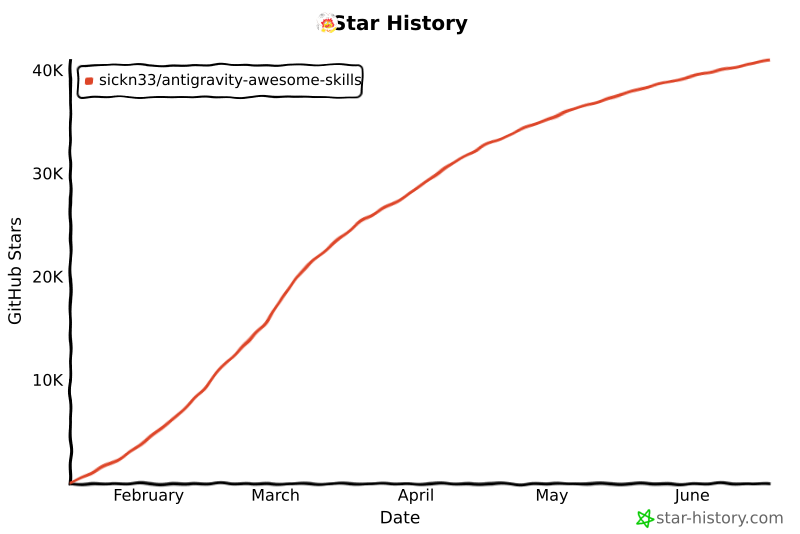
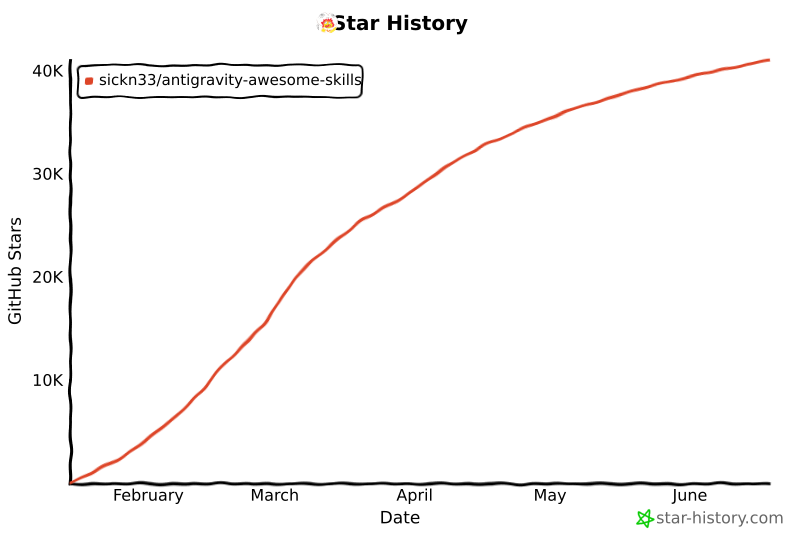
chore: update star history chart

diff --git a/README.md b/README.md
@@ -505,14 +505,14 @@ We officially thank the following contributors for their help in making this rep
 ## Star History
 
 <a href="https://www.star-history.com/#sickn33/antigravity-awesome-skills&type=date&legend=top-left">
- <img alt="Star History Chart" src="https://api.star-history.com/svg?repos=sickn33/antigravity-awesome-skills&type=date&legend=top-left&cache_bust=202606181007" />
+ <img alt="Star History Chart" src="https://api.star-history.com/svg?repos=sickn33/antigravity-awesome-skills&type=date&legend=top-left&cache_bust=202606191014" />
 </a>
 
 <a href="https://www.star-history.com/sickn33/antigravity-awesome-skills">
  <picture>
-   <source media="(prefers-color-scheme: dark)" srcset="https://api.star-history.com/chart?repos=sickn33/antigravity-awesome-skills&style=landscape1&theme=dark&cache_bust=202606181007" />
-   <source media="(prefers-color-scheme: light)" srcset="https://api.star-history.com/chart?repos=sickn33/antigravity-awesome-skills&style=landscape1&cache_bust=202606181007" />
-   <img alt="Star History Chart" src="https://api.star-history.com/chart?repos=sickn33/antigravity-awesome-skills&style=landscape1&cache_bust=202606181007" />
+   <source media="(prefers-color-scheme: dark)" srcset="https://api.star-history.com/chart?repos=sickn33/antigravity-awesome-skills&style=landscape1&theme=dark&cache_bust=202606191014" />
+   <source media="(prefers-color-scheme: light)" srcset="https://api.star-history.com/chart?repos=sickn33/antigravity-awesome-skills&style=landscape1&cache_bust=202606191014" />
+   <img alt="Star History Chart" src="https://api.star-history.com/chart?repos=sickn33/antigravity-awesome-skills&style=landscape1&cache_bust=202606191014" />
  </picture>
 </a>
 
